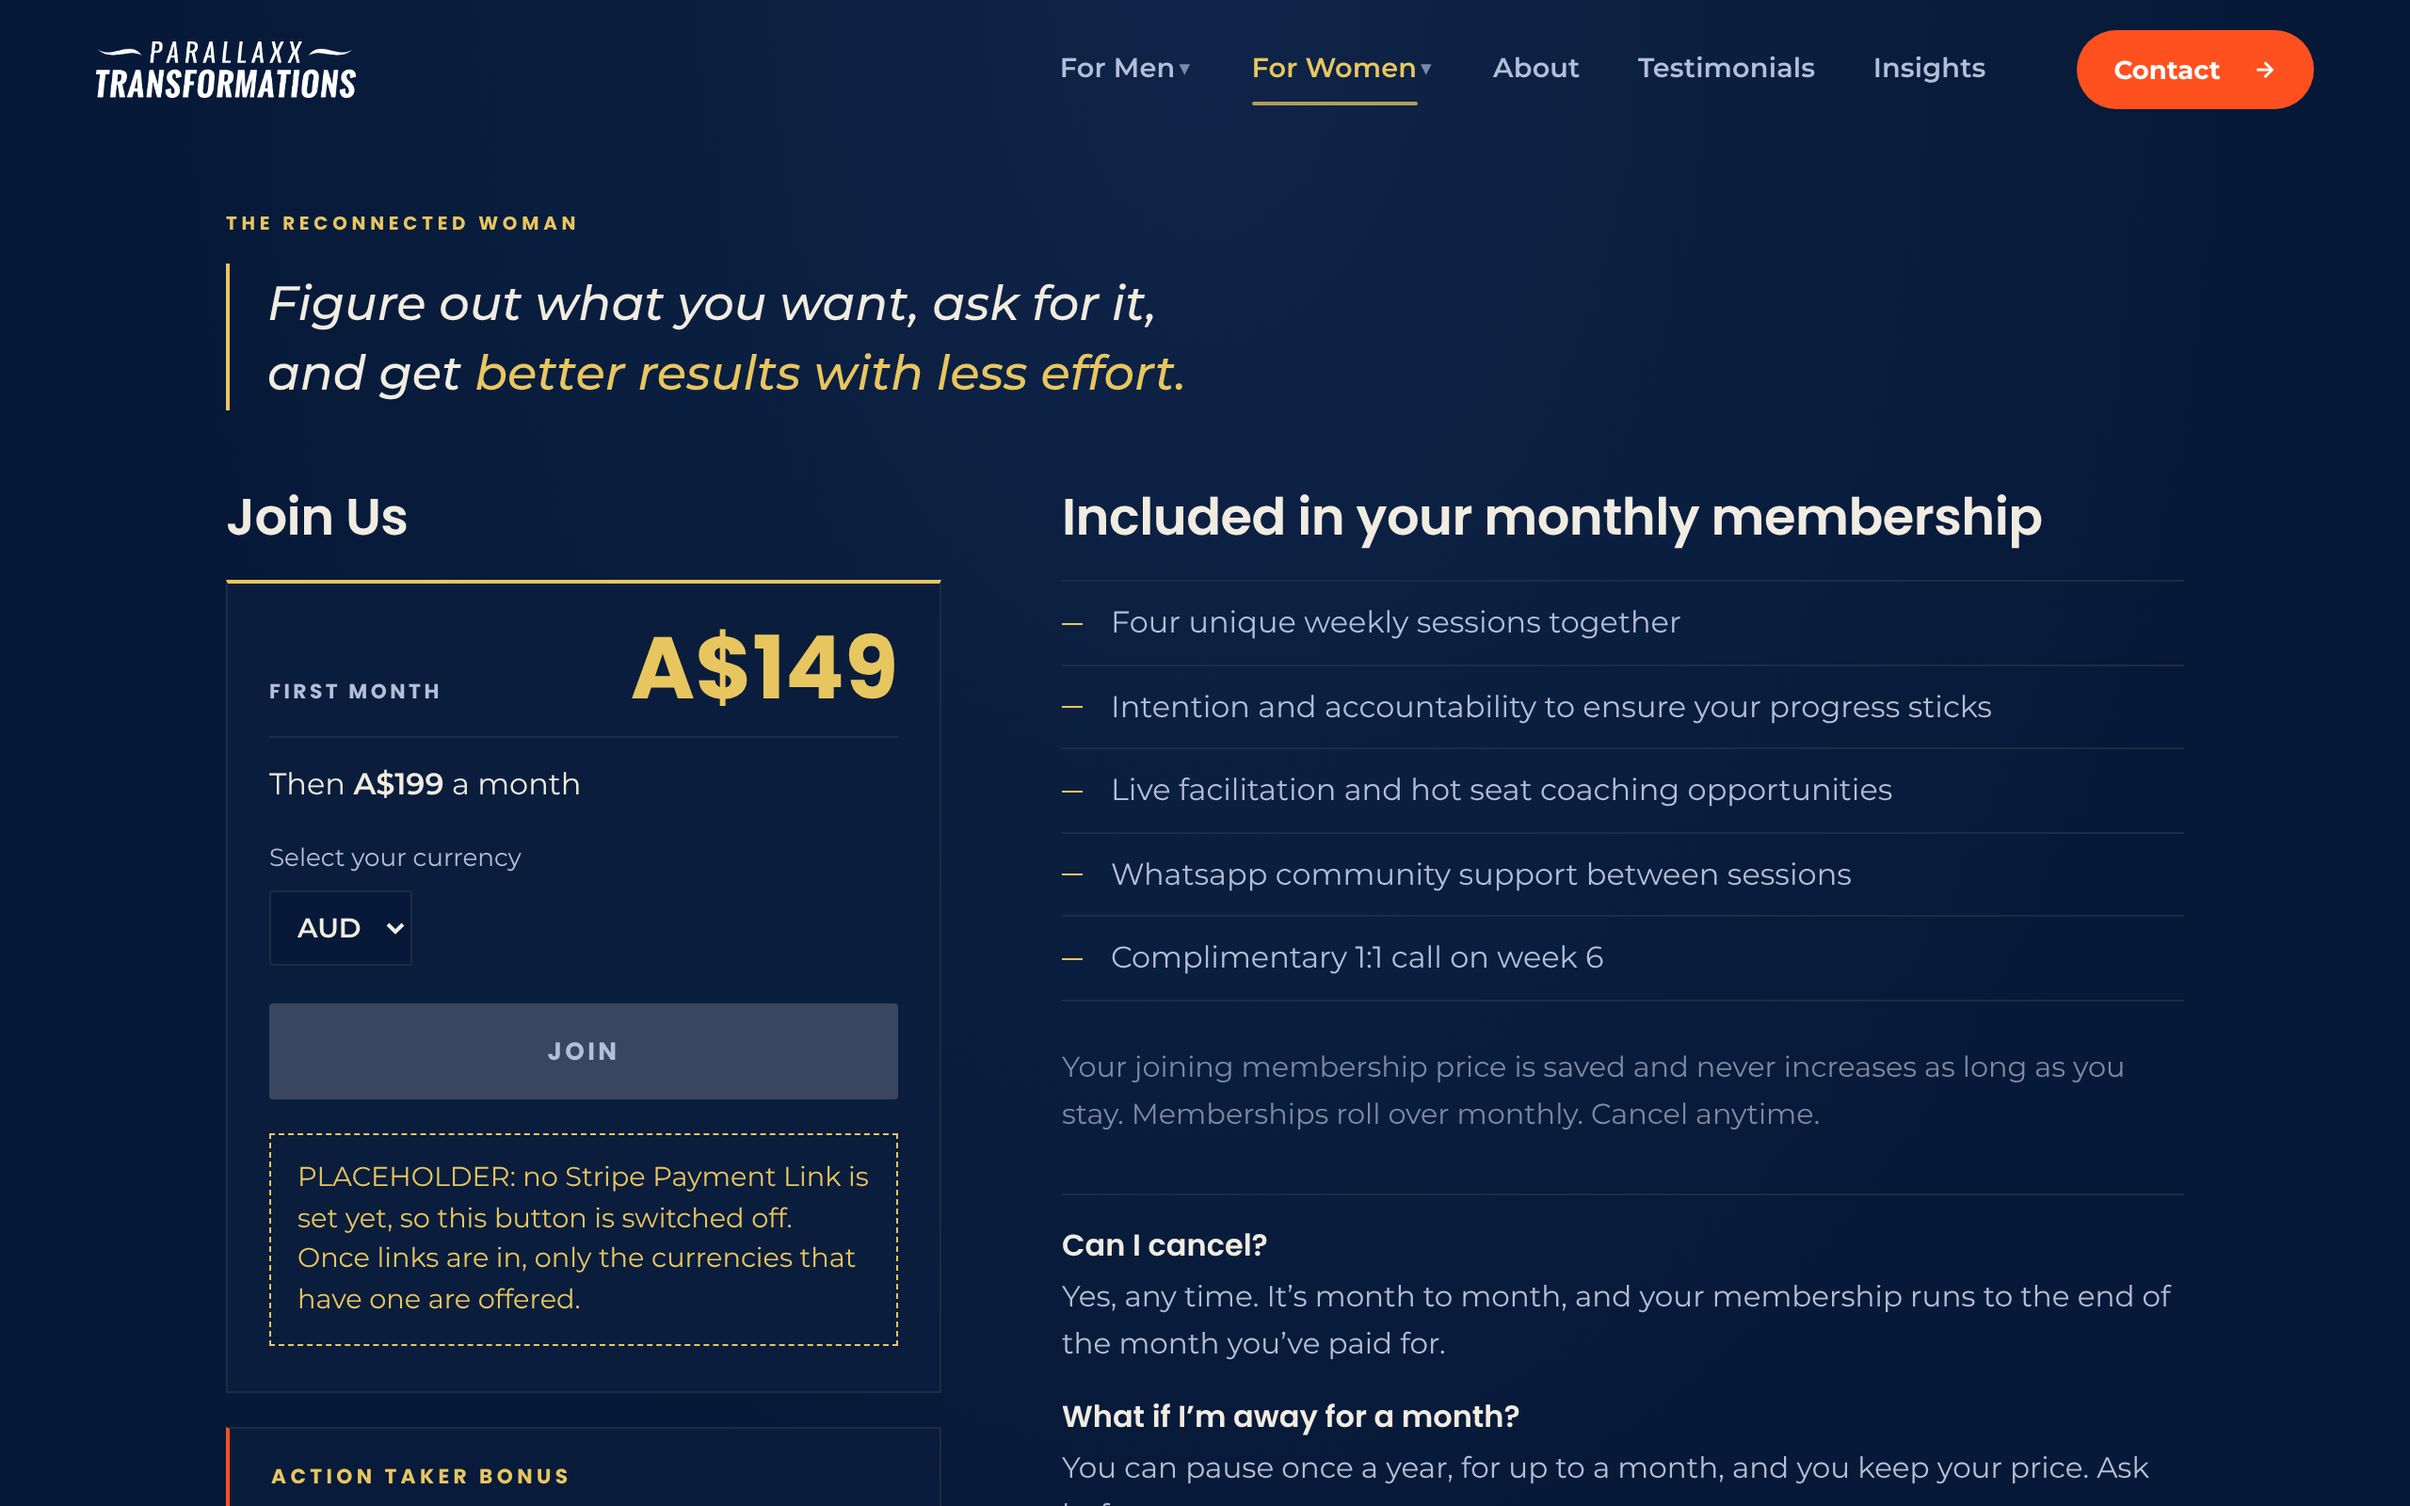
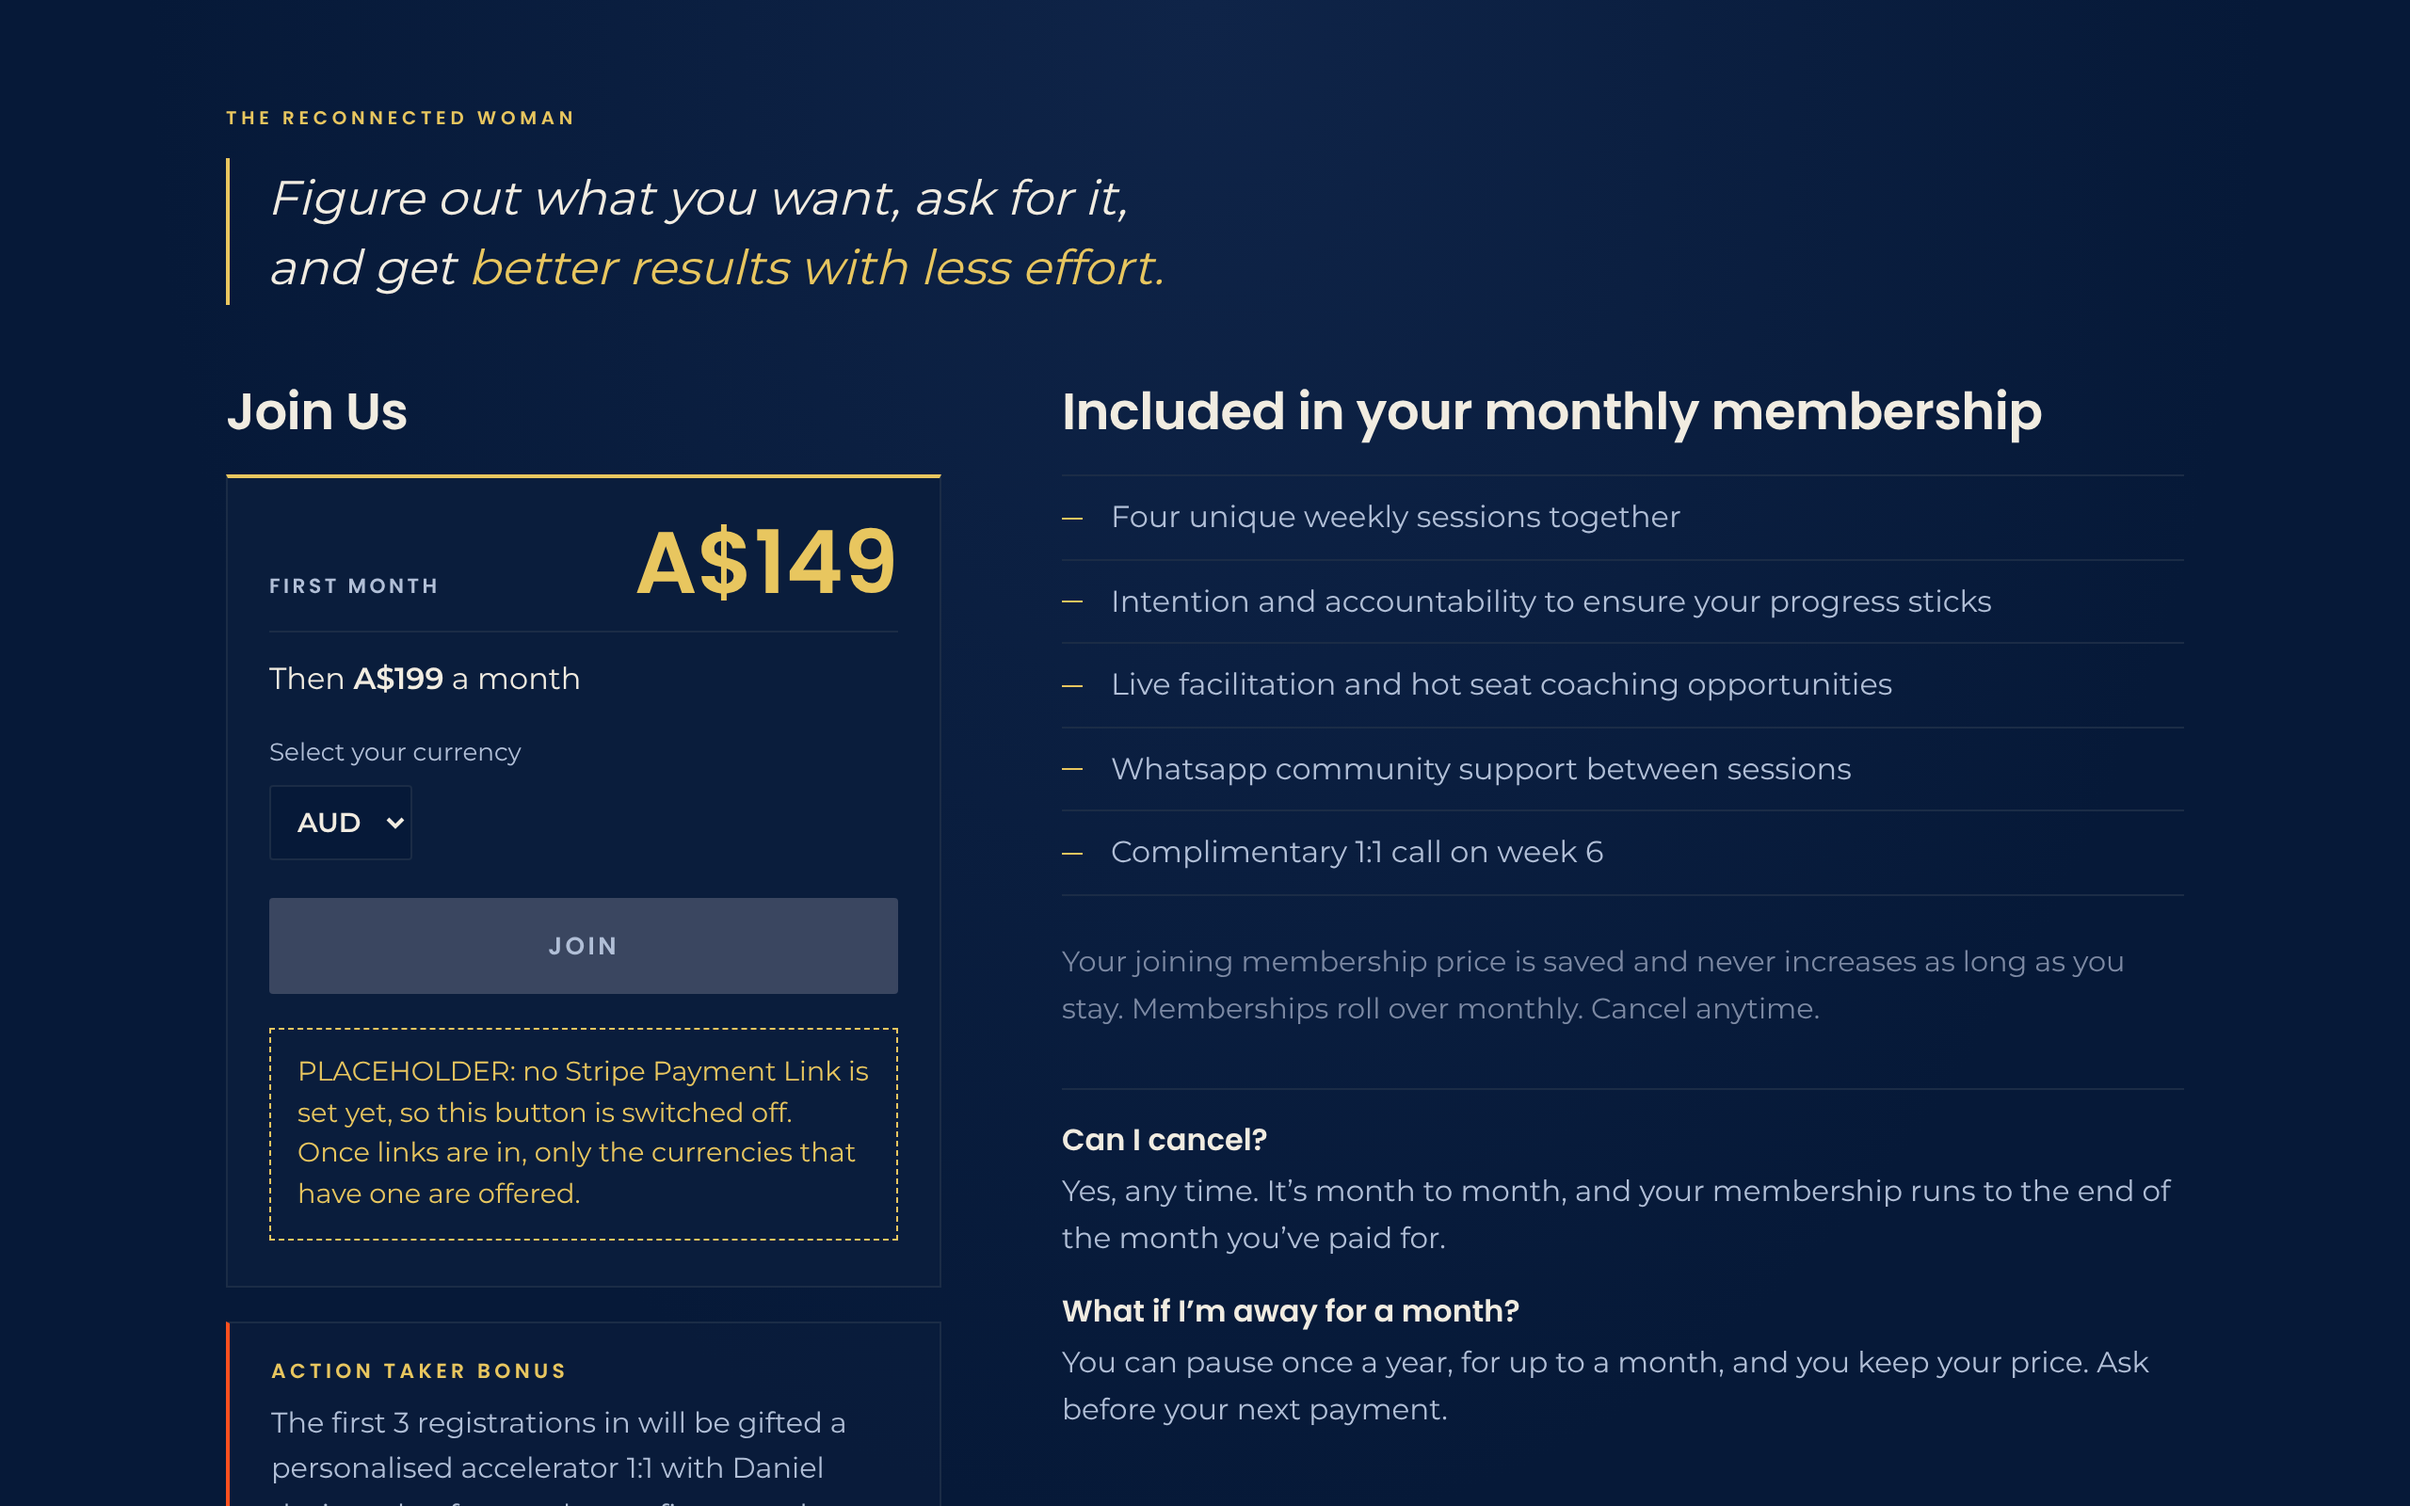
Join page: no site menu and no site footer
Daniel, 23 Nov: nothing on this page leads away except Join. 'The Reconnected
Woman' stays as plain text. The analytics notice stays, made quieter on this
page only. Other pages unchanged. Not published.

Claude-Session: https://claude.ai/code/session_01CeCNG1XNZUuvNZJZtKDaWa

diff --git a/migration/rw_join.py b/migration/rw_join.py
@@ -2,8 +2,8 @@
 rw_join.py -- The Reconnected Woman: the page a woman joins from.
 
 One job: she picks her currency, sees the price in it, and goes to Stripe.
-Built by landing.py (so it is noindex, out of the sitemap, and carries the
-site's own nav, footer and analytics and nothing else). No form, and nothing
+Built by landing.py (so it is noindex and out of the sitemap). It carries no
+site menu and no site footer, only the site's own analytics. No form, and nothing
 is sent anywhere from this page: the button is a plain link to Stripe.
 
 EDIT THE ONE TABLE BELOW AND NOTHING ELSE FOR A PRICE OR LINK CHANGE.
@@ -158,8 +158,19 @@ CSS = """
  main{align-items:flex-start}
  .jn{max-width:1040px;column-gap:clamp(36px,5vw,72px);row-gap:clamp(34px,5vh,52px);
   grid-template-columns:minmax(0,380px) minmax(0,1fr);grid-template-areas:"head head" "pay det"}
- .jn-pay{align-self:start;position:sticky;top:104px}
+ .jn-pay{align-self:start;position:sticky;top:36px}
 }
+/* NO MENU AND NO FOOTER on this page, so the top padding that cleared the
+   fixed menu comes down. */
+body.bare main{padding-top:clamp(36px,7vh,72px)}
+/* THE ANALYTICS NOTICE, kept as on every page but quieter here: smaller
+   type, less padding, plainer buttons. Same words, same two choices. */
+body.bare #px-consent{font-size:12px;line-height:1.45;padding:9px 14px;gap:6px 12px;
+ background:#04122A;color:#B1BFD7;box-shadow:none;border-top:1px solid #1B2C46}
+body.bare #px-consent a{color:#B1BFD7}
+body.bare #px-consent button{padding:5px 12px;border-color:#7C89A3;color:#B1BFD7}
+body.bare #px-consent button.px-yes{background:transparent;color:#F1ECE1;border-color:#B1BFD7}
+
 .jn .ey{margin:0 0 14px;font:800 .62rem/1.4 'Poppins',system-ui,sans-serif;letter-spacing:.24em;
  text-transform:uppercase;color:var(--gold)}
 .jn .quote{margin:0;padding:2px 0 2px 20px;border-left:2px solid var(--gold);

diff --git a/migration/landing.py b/migration/landing.py
@@ -209,6 +209,9 @@ RW_JOIN = dict(
     title="Join | The Reconnected Woman",
     desc="Join The Reconnected Woman.",
     custom=rw_join,
+    # No site menu and no site footer (Daniel, 23 Nov 2026): nothing on this
+    # page leads away except Join. The analytics notice stays, as on every page.
+    bare=True,
 )
 
 PAGES = [TESTIMONIAL_BRIAN, TTL_THANKS, RW_THANKS, RM_THANKS, SUB_THANKS, NOT_FOUND, RW_JOIN]
@@ -364,6 +367,11 @@ def render(ctx, p) -> str:
     # A page written to a fixed file (the 404) has no address of its own.
     canon = "" if p.get("file") else f'<link rel="canonical" href="{canonical}">\n'
     ogurl = "" if p.get("file") else f'<meta property="og:url" content="{canonical}">\n'
+    bare = bool(p.get("bare"))
+    nav = "" if bare else "<parallaxx-nav></parallaxx-nav>\n"
+    foot = "" if bare else ('<parallaxx-footer></parallaxx-footer>\n'
+                            '<script src="/parallaxx-nav.js"></script>\n'
+                            '<script src="/parallaxx-footer.js"></script>\n')
     return f"""<!DOCTYPE html>
 <html lang="en">
 <head>
@@ -386,15 +394,11 @@ def render(ctx, p) -> str:
 <style>{CSS}{p['custom'].CSS if p.get('custom') else ''}</style>
 {ctx['analytics_head']}
 </head>
-<body>
-<parallaxx-nav></parallaxx-nav>
-<main>
+<body{' class="bare"' if bare else ''}>
+{nav}<main>
 {_inner(p, e)}
 </main>
-<parallaxx-footer></parallaxx-footer>
-<script src="/parallaxx-nav.js"></script>
-<script src="/parallaxx-footer.js"></script>
-{ctx['analytics_body']}
+{foot}{ctx['analytics_body']}
 {_lead_js(p)}
 </body>
 </html>
